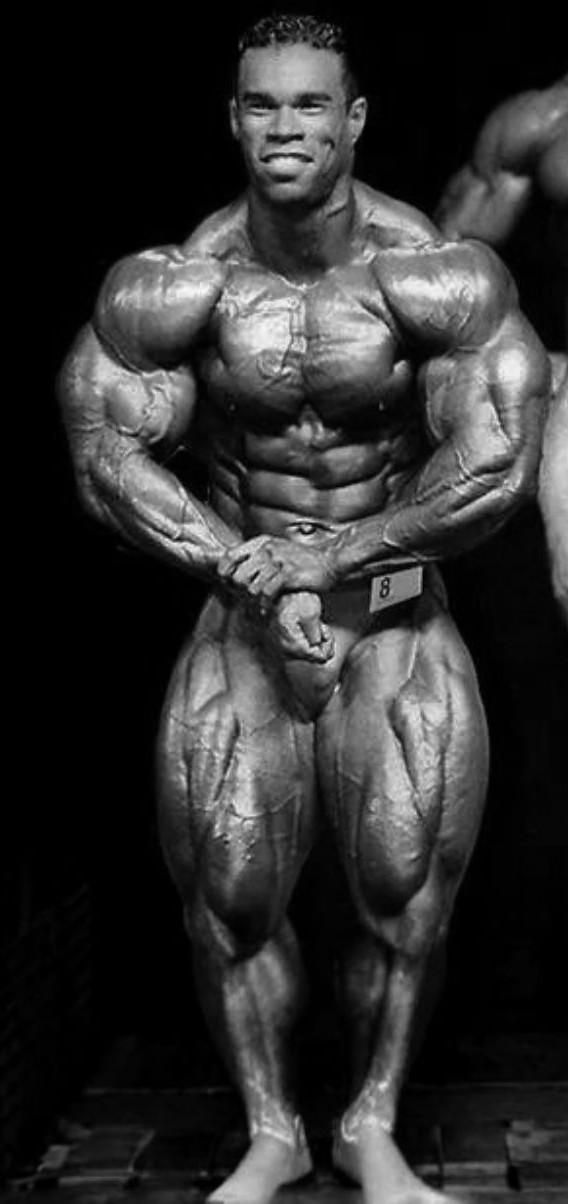
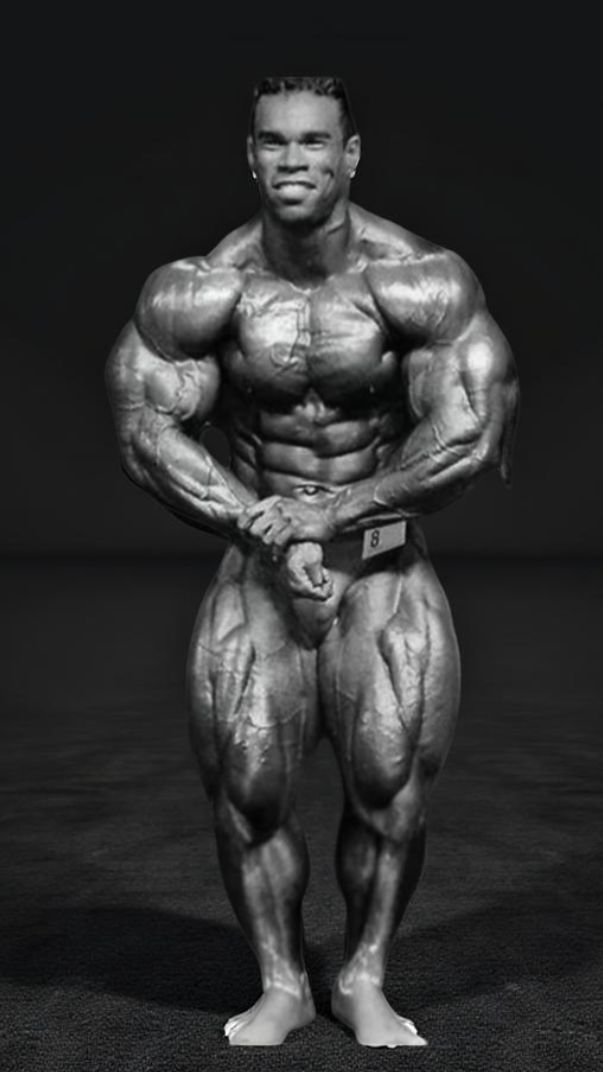
update motivacional

diff --git a/src/pages/Motivacional.jsx b/src/pages/Motivacional.jsx
@@ -20,16 +20,17 @@ const imagens = import.meta.glob("../data/motivacional/*.jpg", {
 
 pessoas.forEach((pessoa) => {
   const path = `../data/motivacional/${pessoa.imagemSrc}`;
-  pessoa.imagem = imagens[path]; // já é o src
+  pessoa.imagem = imagens[path];
 });
 
 function Motivacional() {
   return (
     <Container className="relative h-real w-screen overflow-hidden bg-brand-bgDarkGray">
-      {/* Logo absoluta no topo */}
-      <div className="absolute top-8 left-16 transform -translate-x-1/2 z-10">
+      {/* Logo */}
+      <div className="absolute top-8 left-16 transform -translate-x-1/2 z-10 hidden md:block">
         <Logo />
       </div>
+
       <Swiper
         slidesPerView={1}
         className="relative h-real w-screen overflow-hidden"
@@ -39,22 +40,33 @@ function Motivacional() {
       >
         {pessoas.map((pessoa) => (
           <SwiperSlide key={pessoa.id}>
-            {/* Imagem de fundo */}
-            <div className="absolute inset-0 z-0">
-              <Img
-                src={pessoa.imagem}
-                className="h-full w-auto mx-auto object-cover opacity-90"
-              />
-              {/* Gradiente sobre a imagem */}
-              <div className="absolute inset-0 bg-gradient-to-t from-brand-bgDarkGray via-brand-bgDarkGray/85 to-transparent" />
+            {/* Background */}
+            <div className="absolute inset-0 z-0 flex justify-center items-center">
+              <div
+                className="rounded-2xl shadow-2xl bg-white/5 backdrop-blur-sm overflow-hidden
+                flex justify-center items-center h-full w-full md:w-auto md:h-auto"
+              >
+                <Img
+                  src={pessoa.imagem}
+                  className="h-full w-full object-cover md:w-[640px] md:h-[1080px] md:object-cover opacity-90"
+                />
+              </div>
+
+              {/* Fade */}
+              <div className="absolute inset-0 bg-gradient-to-t from-brand-bgDarkGray via-brand-bgDarkGray/70 to-transparent" />
             </div>
 
-            {/* Conteúdo textual */}
-            
+            {/* Texto */}
             <div className="relative z-10 mt-20 flex flex-col items-center justify-end h-real pb-44 px-8 text-white">
-              <Title className="text-center text-3xl font-extrabold mb-2 text-white" >{pessoa.nome}</Title>
-              <Subtitle>{`"${pessoa.frase}"`}</Subtitle>
-              <Text className="text-xs font-light text-white text-justify max-w-sm mt-4">{pessoa.historia}</Text>
+              <Title className="text-center font-extrabold mb-2 text-white text-3xl md:text-5xl">
+                {pessoa.nome}
+              </Title>
+
+              <Subtitle className="text-sm md:text-xl">{`"${pessoa.frase}"`}</Subtitle>
+
+              <Text className="text-xs font-light text-white text-justify max-w-sm mt-4 md:text-base md:max-w-xl">
+                {pessoa.historia}
+              </Text>
             </div>
           </SwiperSlide>
         ))}
